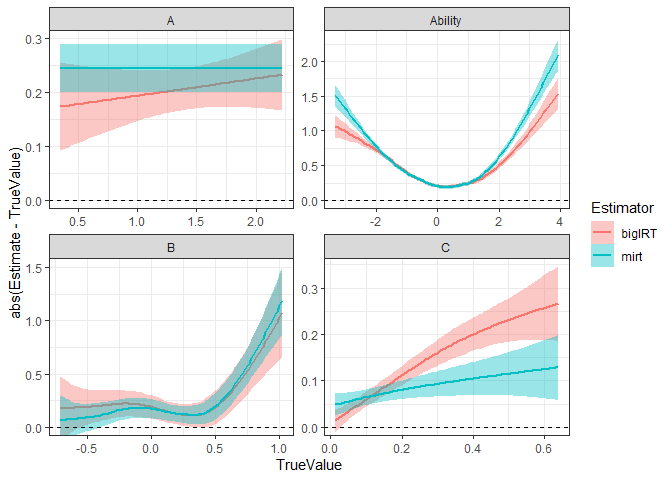
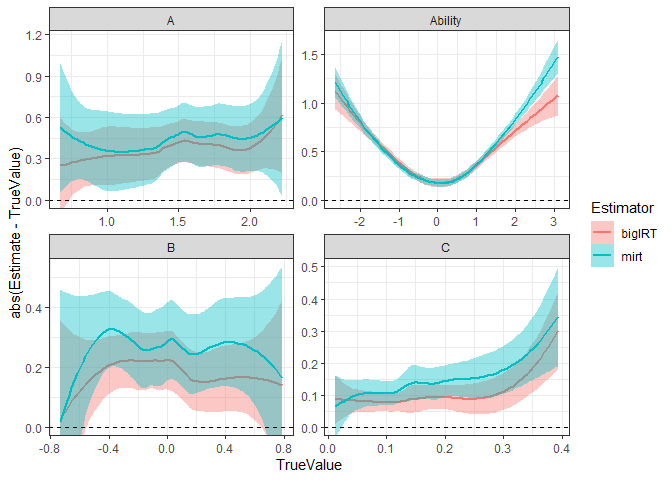
..

diff --git a/readme.md b/readme.md
@@ -24,24 +24,12 @@ model using mirt and bigIRT, and compares the parameter estimates.
 
 ``` r
 library(bigIRT)
-```
-
-    ## Loading required package: data.table
-
-``` r
 library(data.table)
 library(mirt)
-```
-
-    ## Loading required package: stats4
-
-    ## Loading required package: lattice
-
-``` r
 library(ggplot2)
 
 #generate data
-dat <- simIRT(Nsubs = 1000,Nitems = 50,Nscales = 1,
+dat <- simIRT(Nsubs = 400,Nitems = 50,Nscales = 1,
   logitCMean = -2,logitCSD = 1,AMean = 1,ASD = .3,
   BMean=0,BSD = .5,
   AbilityMean = 0,AbilitySD = 1)
@@ -49,17 +37,23 @@ dat <- simIRT(Nsubs = 1000,Nitems = 50,Nscales = 1,
 #normalise true parameters and store
 trueitempars <- normaliseIRT(B = dat$B, A = dat$A, Ability = dat$Ability)
 
-#convert to wide for mirt
-wdat <- data.frame(dcast(data.table(dat$dat),formula = 'id ~ Item',value.var='score')[,-1])
+#fit using bigIRT
+bigirtfit <- fitIRT(dat$dat, pl=3, cores=2, dropPerfectScores = FALSE, stochastic=TRUE,
+  score = 'score', id = 'id', scale = 'Scale', item = 'Item')
 
+#view item and person parameter estimates
+#print(bigirtfit$itemPars)
+#print(bigirtfit$personPars)
+
+#get normalized parameter estimates (normalised on ability)
+bigirtpars <- normaliseIRT(B = bigirtfit$itemPars$B, A = bigirtfit$itemPars$A, Ability = bigirtfit$pars$Ability)
+
+#convert to wide data for mirt
+wdat <- data.frame(dcast(data.table(dat$dat),formula = 'id ~ Item',value.var='score')[,-1])
 
 #fit using mirt
 mirtfit <- mirt(wdat,model=1, itemtype = '3PL',method = "EM")
-```
 
-    ## EM cycles terminated after 500 iterations.
-
-``` r
 #get normalized parameter estimates
 mirtItempars <- coef(mirtfit)
 mirtItempars$GroupPars <- NULL
@@ -67,22 +61,6 @@ mirtItempars <- rbindlist(lapply(mirtItempars, function(x) as.data.frame(x)))
 mirtPersonpars <- fscores(mirtfit)[,1]
 mirtpars<- normaliseIRT(B = -mirtItempars$d / mirtItempars$a1, A = mirtItempars$a1, Ability = mirtPersonpars)
 
-#fit using bigIRT
-bigirtfit <- fitIRT(dat$dat, pl=3, cores=4, dropPerfectScores = FALSE, stochastic=TRUE,
-  score = 'score', id = 'id', scale = 'Scale', item = 'Item')
-```
-
-    ## Free estimation step...
-
-    ## Progress est. = 0%, LPchange = 96, Iter = 31, LP = -31881.183848043Progress est. = 0%, LPchange = 120, Iter = 32, LP = -30989.9833787027Progress est. = 0%, LPchange = 140, Iter = 33, LP = -30315.1728567025Progress est. = 0.15%, LPchange = 140, Iter = 34, LP = -30315.1728567025Progress est. = 0%, LPchange = 160, Iter = 35, LP = -29758.8949673376Progress est. = 0.07%, LPchange = 160, Iter = 36, LP = -29741.7023523809Progress est. = 0.17%, LPchange = 150, Iter = 37, LP = -29741.7023523809Progress est. = 0%, LPchange = 160, Iter = 38, LP = -29540.1019415843Progress est. = 0.08%, LPchange = 160, Iter = 39, LP = -29540.1019415843Progress est. = 0%, LPchange = 160, Iter = 40, LP = -29364.731277841Progress est. = 0.08%, LPchange = 160, Iter = 41, LP = -29364.731277841Progress est. = 0%, LPchange = 160, Iter = 42, LP = -29282.2030974931Progress est. = 0.05%, LPchange = 160, Iter = 43, LP = -29271.1779731264Progress est. = 0.12%, LPchange = 160, Iter = 44, LP = -29271.1779731264Progress est. = 0%, LPchange = 160, Iter = 45, LP = -29167.404110647Progress est. = 0.07%, LPchange = 160, Iter = 46, LP = -29167.404110647Progress est. = 0.05%, LPchange = 160, Iter = 47, LP = -29125.2752185988Progress est. = 0.12%, LPchange = 160, Iter = 48, LP = -29125.2752185988Progress est. = 0.07%, LPchange = 160, Iter = 49, LP = -29067.189532407Progress est. = 0.14%, LPchange = 160, Iter = 50, LP = -29067.189532407Progress est. = 0.15%, LPchange = 160, Iter = 51, LP = -29042.7679410761Progress est. = 0.25%, LPchange = 160, Iter = 52, LP = -29042.7679410761Progress est. = 0.35%, LPchange = 160, Iter = 53, LP = -29019.2466671163Progress est. = 0.56%, LPchange = 150, Iter = 54, LP = -29019.2466671163Progress est. = 0.86%, LPchange = 150, Iter = 55, LP = -29005.8311343831Progress est. = 1.33%, LPchange = 140, Iter = 56, LP = -29005.8311343831Progress est. = 1.98%, LPchange = 130, Iter = 57, LP = -28992.514047427Progress est. = 2.88%, LPchange = 120, Iter = 58, LP = -28992.514047427Progress est. = 3.86%, LPchange = 110, Iter = 59, LP = -28982.45257715Progress est. = 4.54%, LPchange = 100, Iter = 60, LP = -28982.45257715Progress est. = 5.01%, LPchange = 97, Iter = 61, LP = -28975.9851289883Progress est. = 8.53%, LPchange = 67, Iter = 62, LP = -28975.9851289883Progress est. = 12.42%, LPchange = 45, Iter = 63, LP = -28970.4040254059Progress est. = 12.42%, LPchange = 45, Iter = 64, LP = -28970.4040254059Progress est. = 17.55%, LPchange = 26, Iter = 65, LP = -28969.8312804693Progress est. = 17.76%, LPchange = 26, Iter = 66, LP = -28969.8312804693Progress est. = 17.74%, LPchange = 26, Iter = 67, LP = -28967.8026396441Progress est. = 20.64%, LPchange = 19, Iter = 68, LP = -28967.8026396441Progress est. = 20.58%, LPchange = 19, Iter = 69, LP = -28964.2404741661Progress est. = 24.08%, LPchange = 13, Iter = 70, LP = -28964.2404741661Progress est. = 24.01%, LPchange = 13, Iter = 71, LP = -28961.4045710163Progress est. = 26.21%, LPchange = 11, Iter = 72, LP = -28961.4045710163Progress est. = 26.53%, LPchange = 10, Iter = 73, LP = -28960.8663423145Progress est. = 26.53%, LPchange = 10, Iter = 74, LP = -28960.8663423145Progress est. = 30.27%, LPchange = 7, Iter = 75, LP = -28957.0685646598Progress est. = 30.27%, LPchange = 7, Iter = 76, LP = -28957.0685646598Progress est. = 32.31%, LPchange = 5.7, Iter = 77, LP = -28955.067960893Progress est. = 32.31%, LPchange = 5.7, Iter = 78, LP = -28955.067960893Progress est. = 36.26%, LPchange = 3.8, Iter = 79, LP = -28954.2453771907Progress est. = 36.26%, LPchange = 3.8, Iter = 80, LP = -28954.2453771907Progress est. = 38.49%, LPchange = 3, Iter = 81, LP = -28953.1914520241Progress est. = 38.49%, LPchange = 3, Iter = 82, LP = -28953.1914520241Progress est. = 41.35%, LPchange = 2.2, Iter = 83, LP = -28952.6949215916Progress est. = 41.35%, LPchange = 2.2, Iter = 84, LP = -28952.6949215916Progress est. = 43.4%, LPchange = 1.8, Iter = 85, LP = -28952.0919978326Progress est. = 43.4%, LPchange = 1.8, Iter = 86, LP = -28952.0919978326Progress est. = 45.86%, LPchange = 1.4, Iter = 87, LP = -28950.8835694868Progress est. = 45.86%, LPchange = 1.4, Iter = 88, LP = -28950.8835694868Progress est. = 48.44%, LPchange = 1.1, Iter = 89, LP = -28950.6164306822Progress est. = 48.44%, LPchange = 1.1, Iter = 90, LP = -28950.6164306822Progress est. = 50.13%, LPchange = 0.89, Iter = 91, LP = -28949.2621311744Progress est. = 50.13%, LPchange = 0.89, Iter = 92, LP = -28949.2621311744Progress est. = 52.29%, LPchange = 0.71, Iter = 93, LP = -28949.0684669031Progress est. = 52.29%, LPchange = 0.71, Iter = 94, LP = -28949.0684669031Progress est. = 52.27%, LPchange = 0.71, Iter = 95, LP = -28948.4442742876Progress est. = 52.27%, LPchange = 0.71, Iter = 96, LP = -28948.4442742876Progress est. = 53.04%, LPchange = 0.66, Iter = 97, LP = -28948.0518640552Progress est. = 53.04%, LPchange = 0.66, Iter = 98, LP = -28948.0518640552Progress est. = 54.73%, LPchange = 0.55, Iter = 99, LP = -28947.685346405Progress est. = 54.73%, LPchange = 0.55, Iter = 100, LP = -28947.685346405Progress est. = 56.54%, LPchange = 0.46, Iter = 101, LP = -28947.685346405Progress est. = 56.39%, LPchange = 0.46, Iter = 102, LP = -28947.4699300992Progress est. = 56.73%, LPchange = 0.45, Iter = 103, LP = -28947.4109751839Progress est. = 56.73%, LPchange = 0.45, Iter = 104, LP = -28947.4109751839Progress est. = 59.37%, LPchange = 0.34, Iter = 105, LP = -28946.8404582483Progress est. = 59.33%, LPchange = 0.34, Iter = 106, LP = -28946.8039024152Progress est. = 61.29%, LPchange = 0.28, Iter = 107, LP = -28946.6906223235Progress est. = 61.29%, LPchange = 0.28, Iter = 108, LP = -28946.6906223235Progress est. = 61.82%, LPchange = 0.26, Iter = 109, LP = -28946.3188242225Progress est. = 61.8%, LPchange = 0.26, Iter = 110, LP = -28946.3027848838Progress est. = 62.63%, LPchange = 0.24, Iter = 111, LP = -28945.9000603619Progress est. = 62.63%, LPchange = 0.24, Iter = 112, LP = -28945.9000603619Progress est. = 63.3%, LPchange = 0.23, Iter = 113, LP = -28945.9000603619Progress est. = 63.19%, LPchange = 0.23, Iter = 114, LP = -28945.8207003791Progress est. = 64.08%, LPchange = 0.21, Iter = 115, LP = -28945.8207003791Progress est. = 63.4%, LPchange = 0.22, Iter = 116, LP = -28945.3618547292Progress est. = 65.3%, LPchange = 0.18, Iter = 117, LP = -28945.3618547292Progress est. = 64.03%, LPchange = 0.21, Iter = 118, LP = -28944.5789290077Progress est. = 64.44%, LPchange = 0.2, Iter = 119, LP = -28944.5789290077Progress est. = 63.3%, LPchange = 0.23, Iter = 120, LP = -28943.8192168316Progress est. = 65.44%, LPchange = 0.18, Iter = 121, LP = -28943.8192168316Progress est. = 64.3%, LPchange = 0.2, Iter = 122, LP = -28943.1354249754Progress est. = 64.61%, LPchange = 0.2, Iter = 123, LP = -28943.1354249754Progress est. = 62.52%, LPchange = 0.25, Iter = 124, LP = -28941.6958772409Progress est. = 63.37%, LPchange = 0.22, Iter = 125, LP = -28941.6958772409Progress est. = 61.02%, LPchange = 0.29, Iter = 126, LP = -28939.8283147545Progress est. = 61.47%, LPchange = 0.27, Iter = 127, LP = -28939.8283147545Progress est. = 59.75%, LPchange = 0.33, Iter = 128, LP = -28938.2257491559Progress est. = 60.12%, LPchange = 0.32, Iter = 129, LP = -28938.2257491559Progress est. = 59.43%, LPchange = 0.34, Iter = 130, LP = -28937.5268518013Progress est. = 58.72%, LPchange = 0.36, Iter = 131, LP = -28936.7485062605Progress est. = 58.92%, LPchange = 0.36, Iter = 132, LP = -28936.7485062605Progress est. = 58.28%, LPchange = 0.38, Iter = 133, LP = -28935.9516154424Progress est. = 58.16%, LPchange = 0.39, Iter = 134, LP = -28935.8100837686Progress est. = 58.17%, LPchange = 0.39, Iter = 135, LP = -28935.2595161092Progress est. = 57.83%, LPchange = 0.4, Iter = 136, LP = -28934.8020477989Progress est. = 57.75%, LPchange = 0.4, Iter = 137, LP = -28934.5849597471Progress est. = 57.52%, LPchange = 0.41, Iter = 138, LP = -28934.2899134252Progress est. = 57.4%, LPchange = 0.42, Iter = 139, LP = -28933.7724121584Progress est. = 57.32%, LPchange = 0.42, Iter = 140, LP = -28933.6530269976Progress est. = 57.36%, LPchange = 0.42, Iter = 141, LP = -28933.3020278109Progress est. = 56.98%, LPchange = 0.44, Iter = 142, LP = -28932.795121071Progress est. = 56.89%, LPchange = 0.44, Iter = 143, LP = -28932.664859981Progress est. = 56.6%, LPchange = 0.45, Iter = 144, LP = -28932.181230873Progress est. = 56.44%, LPchange = 0.46, Iter = 145, LP = -28931.9535752563Progress est. = 56.46%, LPchange = 0.46, Iter = 146, LP = -28931.5203962935Progress est. = 56.17%, LPchange = 0.48, Iter = 147, LP = -28931.1014560262Progress est. = 56.67%, LPchange = 0.45, Iter = 148, LP = -28931.0336445755Progress est. = 56.51%, LPchange = 0.46, Iter = 149, LP = -28930.8087410397Progress est. = 57%, LPchange = 0.44, Iter = 150, LP = -28930.7340342276Progress est. = 56.37%, LPchange = 0.47, Iter = 151, LP = -28929.8485621478Progress est. = 56.32%, LPchange = 0.47, Iter = 152, LP = -28929.1000140303Progress est. = 56.32%, LPchange = 0.47, Iter = 153, LP = -28929.1000140303Progress est. = 57.01%, LPchange = 0.44, Iter = 154, LP = -28928.6238941825Progress est. = 57.01%, LPchange = 0.44, Iter = 155, LP = -28928.6238941825Progress est. = 57.93%, LPchange = 0.4, Iter = 156, LP = -28927.9503713177Progress est. = 57.93%, LPchange = 0.4, Iter = 157, LP = -28927.9503713177Progress est. = 59.25%, LPchange = 0.35, Iter = 158, LP = -28927.8664724846Progress est. = 58.66%, LPchange = 0.37, Iter = 159, LP = -28927.2119747574Progress est. = 58.84%, LPchange = 0.36, Iter = 160, LP = -28926.7188699041Progress est. = 58.77%, LPchange = 0.36, Iter = 161, LP = -28925.8628408302Progress est. = 58.4%, LPchange = 0.38, Iter = 162, LP = -28925.4387203277Progress est. = 58.71%, LPchange = 0.37, Iter = 163, LP = -28924.9988512583Progress est. = 58.38%, LPchange = 0.38, Iter = 164, LP = -28924.4704831714Progress est. = 58.31%, LPchange = 0.38, Iter = 165, LP = -28923.8362586693Progress est. = 58.52%, LPchange = 0.37, Iter = 166, LP = -28923.633297779Progress est. = 58.31%, LPchange = 0.38, Iter = 167, LP = -28923.1718189851Progress est. = 58.23%, LPchange = 0.38, Iter = 168, LP = -28922.7755633244Progress est. = 58.38%, LPchange = 0.38, Iter = 169, LP = -28922.4367577876Progress est. = 58.24%, LPchange = 0.38, Iter = 170, LP = -28922.1536817172Progress est. = 58.26%, LPchange = 0.38, Iter = 171, LP = -28921.8223411671Progress est. = 58.48%, LPchange = 0.37, Iter = 172, LP = -28921.5743037074Progress est. = 58.36%, LPchange = 0.38, Iter = 173, LP = -28921.3103253033Progress est. = 58.52%, LPchange = 0.37, Iter = 174, LP = -28921.0073008899Progress est. = 58.5%, LPchange = 0.37, Iter = 175, LP = -28920.7598231573Progress est. = 58.69%, LPchange = 0.37, Iter = 176, LP = -28920.5469887493Progress est. = 58.81%, LPchange = 0.36, Iter = 177, LP = -28920.2657072933Progress est. = 58.68%, LPchange = 0.37, Iter = 178, LP = -28920.0469825412Progress est. = 58.74%, LPchange = 0.36, Iter = 179, LP = -28919.8895480458Progress est. = 58.81%, LPchange = 0.36, Iter = 180, LP = -28919.8895480458Progress est. = 59.63%, LPchange = 0.33, Iter = 181, LP = -28919.8895480458Progress est. = 60.38%, LPchange = 0.31, Iter = 182, LP = -28919.8895480458Progress est. = 60.17%, LPchange = 0.31, Iter = 183, LP = -28919.6883852369Progress est. = 60.16%, LPchange = 0.31, Iter = 184, LP = -28919.2028816212Progress est. = 60.16%, LPchange = 0.31, Iter = 185, LP = -28919.2028816212Progress est. = 60.87%, LPchange = 0.29, Iter = 186, LP = -28919.2028816212Progress est. = 60.41%, LPchange = 0.31, Iter = 187, LP = -28918.7741768181Progress est. = 60.46%, LPchange = 0.3, Iter = 188, LP = -28918.7387203504Progress est. = 60.86%, LPchange = 0.29, Iter = 189, LP = -28918.4505081283Progress est. = 61.27%, LPchange = 0.28, Iter = 190, LP = -28918.3236001957Progress est. = 62.03%, LPchange = 0.26, Iter = 191, LP = -28918.1058073992Progress est. = 62.51%, LPchange = 0.25, Iter = 192, LP = -28918.0570317659Progress est. = 62.89%, LPchange = 0.24, Iter = 193, LP = -28917.9049684733Progress est. = 63.49%, LPchange = 0.22, Iter = 194, LP = -28917.8037214146Progress est. = 64.35%, LPchange = 0.2, Iter = 195, LP = -28917.7406046653Progress est. = 64.52%, LPchange = 0.2, Iter = 196, LP = -28917.6434591612Progress est. = 65.1%, LPchange = 0.19, Iter = 197, LP = -28917.5350478169Progress est. = 65.67%, LPchange = 0.18, Iter = 198, LP = -28917.4608338844Progress est. = 66.2%, LPchange = 0.17, Iter = 199, LP = -28917.4059806943Progress est. = 66.55%, LPchange = 0.16, Iter = 200, LP = -28917.3029514232Progress est. = 67.15%, LPchange = 0.15, Iter = 201, LP = -28917.2654708159Progress est. = 67.54%, LPchange = 0.15, Iter = 202, LP = -28917.2004127303Progress est. = 67.96%, LPchange = 0.14, Iter = 203, LP = -28917.1212326491Progress est. = 68.56%, LPchange = 0.13, Iter = 204, LP = -28917.0700207521Progress est. = 69.14%, LPchange = 0.12, Iter = 205, LP = -28917.0529493555Progress est. = 69.47%, LPchange = 0.12, Iter = 206, LP = -28916.9672329827Progress est. = 70.08%, LPchange = 0.11, Iter = 207, LP = -28916.9063531024Progress est. = 70.6%, LPchange = 0.11, Iter = 208, LP = -28916.8639995257Progress est. = 70.84%, LPchange = 0.1, Iter = 209, LP = -28916.7844885762Progress est. = 70.64%, LPchange = 0.11, Iter = 210, LP = -28916.7183173174Progress est. = 70.45%, LPchange = 0.11, Iter = 211, LP = -28916.6571189945Progress est. = 70.32%, LPchange = 0.11, Iter = 212, LP = -28916.6134571183Progress est. = 70.79%, LPchange = 0.1, Iter = 213, LP = -28916.5653876638Progress est. = 72.18%, LPchange = 0.09, Iter = 214, LP = -28916.5021541044Progress est. = 72.03%, LPchange = 0.092, Iter = 215, LP = -28916.4576663505Progress est. = 71.85%, LPchange = 0.093, Iter = 216, LP = -28916.4077440467Progress est. = 73.28%, LPchange = 0.08, Iter = 217, LP = -28916.3632722288Progress est. = 73.19%, LPchange = 0.081, Iter = 218, LP = -28916.3056911788Progress est. = 74.4%, LPchange = 0.071, Iter = 219, LP = -28916.3056911788Progress est. = 74.93%, LPchange = 0.068, Iter = 220, LP = -28916.2931030741Progress est. = 75.44%, LPchange = 0.064, Iter = 221, LP = -28916.1801901689Progress est. = 75.38%, LPchange = 0.065, Iter = 222, LP = -28916.1196856195Progress est. = 75.98%, LPchange = 0.061, Iter = 223, LP = -28916.0838567065Progress est. = 76.35%, LPchange = 0.058, Iter = 224, LP = -28916.0527835473Progress est. = 76.24%, LPchange = 0.059, Iter = 225, LP = -28915.969318866Progress est. = 76.59%, LPchange = 0.057, Iter = 226, LP = -28915.9347847458Progress est. = 77.22%, LPchange = 0.053, Iter = 227, LP = -28915.9347847458Progress est. = 76.97%, LPchange = 0.055, Iter = 228, LP = -28915.81792386Progress est. = 77.19%, LPchange = 0.054, Iter = 229, LP = -28915.8008011419Progress est. = 77.29%, LPchange = 0.053, Iter = 230, LP = -28915.7151493511Progress est. = 77.52%, LPchange = 0.052, Iter = 231, LP = -28915.7151493511Progress est. = 77.77%, LPchange = 0.05, Iter = 232, LP = -28915.6895034644Progress est. = 78.1%, LPchange = 0.049, Iter = 233, LP = -28915.6609702862Progress est. = 78.2%, LPchange = 0.048, Iter = 234, LP = -28915.6243054875Progress est. = 78.13%, LPchange = 0.049, Iter = 235, LP = -28915.5967315976Progress est. = 78.35%, LPchange = 0.047, Iter = 236, LP = -28915.5438662636Progress est. = 78.6%, LPchange = 0.046, Iter = 237, LP = -28915.5199515292Progress est. = 78.66%, LPchange = 0.046, Iter = 238, LP = -28915.4857740791Progress est. = 79.04%, LPchange = 0.044, Iter = 239, LP = -28915.4594247337Progress est. = 79.38%, LPchange = 0.043, Iter = 240, LP = -28915.4404355601Progress est. = 79.63%, LPchange = 0.042, Iter = 241, LP = -28915.4113466016Progress est. = 79.84%, LPchange = 0.041, Iter = 242, LP = -28915.3950055179Progress est. = 80.01%, LPchange = 0.04, Iter = 243, LP = -28915.3674987159Progress est. = 80.4%, LPchange = 0.038, Iter = 244, LP = -28915.3520246885Progress est. = 80.55%, LPchange = 0.038, Iter = 245, LP = -28915.3261270956Progress est. = 80.86%, LPchange = 0.037, Iter = 246, LP = -28915.3115795559Progress est. = 81.05%, LPchange = 0.036, Iter = 247, LP = -28915.2885553468Progress est. = 81.4%, LPchange = 0.035, Iter = 248, LP = -28915.2694477245Progress est. = 81.4%, LPchange = 0.035, Iter = 249, LP = -28915.2694477245Progress est. = 81.52%, LPchange = 0.034, Iter = 250, LP = -28915.2694477245Progress est. = 82.43%, LPchange = 0.031, Iter = 251, LP = -28915.2494377984Progress est. = 83.08%, LPchange = 0.029, Iter = 252, LP = -28915.2494377984Progress est. = 83.43%, LPchange = 0.028, Iter = 253, LP = -28915.2445221812Progress est. = 83.5%, LPchange = 0.028, Iter = 254, LP = -28915.2194589343Progress est. = 84.42%, LPchange = 0.025, Iter = 255, LP = -28915.2122095364Progress est. = 84.52%, LPchange = 0.025, Iter = 256, LP = -28915.1850214512Progress est. = 84.33%, LPchange = 0.025, Iter = 257, LP = -28915.170277358Progress est. = 85.82%, LPchange = 0.022, Iter = 258, LP = -28915.1630059837Progress est. = 85.83%, LPchange = 0.022, Iter = 259, LP = -28915.1466377129Progress est. = 87.04%, LPchange = 0.019, Iter = 260, LP = -28915.1381780003Progress est. = 86.81%, LPchange = 0.02, Iter = 261, LP = -28915.1247022068Progress est. = 87.1%, LPchange = 0.019, Iter = 262, LP = -28915.1166256806Progress est. = 87.47%, LPchange = 0.018, Iter = 263, LP = -28915.1096820283Progress est. = 87.85%, LPchange = 0.018, Iter = 264, LP = -28915.0942644383Progress est. = 88.2%, LPchange = 0.017, Iter = 265, LP = -28915.0852445227Progress est. = 89.09%, LPchange = 0.016, Iter = 266, LP = -28915.0775979615Progress est. = 89.55%, LPchange = 0.015, Iter = 267, LP = -28915.0755865146Progress est. = 90.06%, LPchange = 0.014, Iter = 268, LP = -28915.0641984226Progress est. = 90.44%, LPchange = 0.013, Iter = 269, LP = -28915.05450836Progress est. = 90.8%, LPchange = 0.013, Iter = 270, LP = -28915.0501702976Progress est. = 91.54%, LPchange = 0.012, Iter = 271, LP = -28915.0501702976Progress est. = 91.99%, LPchange = 0.011, Iter = 272, LP = -28915.0501702976Progress est. = 92.79%, LPchange = 0.011, Iter = 273, LP = -28915.0501702976Progress est. = 92.91%, LPchange = 0.01, Iter = 274, LP = -28915.0387920581Progress est. = 93.68%, LPchange = 0.0096, Iter = 275, LP = -28915.0369256734Progress est. = 93.71%, LPchange = 0.0096, Iter = 276, LP = -28915.0231089041Progress est. = 94.25%, LPchange = 0.0091, Iter = 277, LP = -28915.0159254562Progress est. = 94.79%, LPchange = 0.0086, Iter = 278, LP = -28915.0116616446Progress est. = 94.56%, LPchange = 0.0088, Iter = 279, LP = -28915.0054430346Progress est. = 94.38%, LPchange = 0.009, Iter = 280, LP = -28915.0004861775Progress est. = 94.96%, LPchange = 0.0084, Iter = 281, LP = -28914.996214417Progress est. = 94.83%, LPchange = 0.0086, Iter = 282, LP = -28914.9927473509Progress est. = 94.89%, LPchange = 0.0085, Iter = 283, LP = -28914.9895228775Progress est. = 95.74%, LPchange = 0.0078, Iter = 284, LP = -28914.986040929Progress est. = 95.93%, LPchange = 0.0076, Iter = 285, LP = -28914.9832666893Progress est. = 97.06%, LPchange = 0.0068, Iter = 286, LP = -28914.9814370904Progress est. = 97.66%, LPchange = 0.0064, Iter = 287, LP = -28914.9790448186Progress est. = 97.97%, LPchange = 0.0062, Iter = 288, LP = -28914.9777721629Progress est. = 98.86%, LPchange = 0.0056, Iter = 289, LP = -28914.9777721629Progress est. = 99.35%, LPchange = 0.0053, Iter = 290, LP = -28914.9777721629Progress est. = 100%, LPchange = 0.0049, Iter = 291, LP = -28914.9777721629
-    ## Converged -- lp change within tol(0.005)
-    ## Empirical Bayes step...
-    ## Progress est. = 0%, LPchange = 86, Iter = 31, LP = -32123.826767118Progress est. = 0%, LPchange = 110, Iter = 32, LP = -31332.3812540841Progress est. = 0%, LPchange = 140, Iter = 33, LP = -30331.4805795993Progress est. = 0.13%, LPchange = 140, Iter = 34, LP = -30331.4805795993Progress est. = 0%, LPchange = 140, Iter = 35, LP = -30177.6408870137Progress est. = 0.1%, LPchange = 140, Iter = 36, LP = -30177.6408870137Progress est. = 0%, LPchange = 140, Iter = 37, LP = -29965.8417245009Progress est. = 0.08%, LPchange = 140, Iter = 38, LP = -29965.8417245009Progress est. = 0.02%, LPchange = 140, Iter = 39, LP = -29890.9174012707Progress est. = 0.1%, LPchange = 140, Iter = 40, LP = -29890.9174012707Progress est. = 0%, LPchange = 150, Iter = 41, LP = -29684.7901678799Progress est. = 0.07%, LPchange = 150, Iter = 42, LP = -29684.7901678799Progress est. = 0%, LPchange = 150, Iter = 43, LP = -29548.4621545618Progress est. = 0.06%, LPchange = 150, Iter = 44, LP = -29548.4621545618Progress est. = 0%, LPchange = 150, Iter = 45, LP = -29467.1241605572Progress est. = 0.06%, LPchange = 150, Iter = 46, LP = -29467.1241605572Progress est. = 0.02%, LPchange = 150, Iter = 47, LP = -29406.2118255273Progress est. = 0.08%, LPchange = 150, Iter = 48, LP = -29406.2118255273Progress est. = 0.07%, LPchange = 150, Iter = 49, LP = -29370.7511833959Progress est. = 0.13%, LPchange = 150, Iter = 50, LP = -29370.7511833959Progress est. = 0.11%, LPchange = 150, Iter = 51, LP = -29325.2426426557Progress est. = 0.2%, LPchange = 150, Iter = 52, LP = -29325.2426426557Progress est. = 0.25%, LPchange = 150, Iter = 53, LP = -29282.5212426137Progress est. = 0.45%, LPchange = 140, Iter = 54, LP = -29282.5212426137Progress est. = 0.7%, LPchange = 140, Iter = 55, LP = -29259.5288526293Progress est. = 1.13%, LPchange = 130, Iter = 56, LP = -29259.5288526293Progress est. = 1.66%, LPchange = 120, Iter = 57, LP = -29221.2962544466Progress est. = 2.45%, LPchange = 110, Iter = 58, LP = -29221.2962544466Progress est. = 3.17%, LPchange = 100, Iter = 59, LP = -29201.8853365323Progress est. = 3.41%, LPchange = 98, Iter = 60, LP = -29201.8853365323Progress est. = 3.4%, LPchange = 98, Iter = 61, LP = -29184.8649625834Progress est. = 5.88%, LPchange = 72, Iter = 62, LP = -29184.8649625834Progress est. = 10.72%, LPchange = 39, Iter = 63, LP = -29164.3317549016Progress est. = 10.7%, LPchange = 39, Iter = 64, LP = -29161.6333097946Progress est. = 11.77%, LPchange = 34, Iter = 65, LP = -29156.0700863159Progress est. = 11.68%, LPchange = 34, Iter = 66, LP = -29143.5756485601Progress est. = 13.4%, LPchange = 28, Iter = 67, LP = -29133.758492946Progress est. = 13.36%, LPchange = 28, Iter = 68, LP = -29129.5737940532Progress est. = 13.99%, LPchange = 26, Iter = 69, LP = -29118.4315085524Progress est. = 13.97%, LPchange = 26, Iter = 70, LP = -29116.8368704746Progress est. = 16.31%, LPchange = 19, Iter = 71, LP = -29108.5459496927Progress est. = 16.18%, LPchange = 20, Iter = 72, LP = -29098.6248307068Progress est. = 18.18%, LPchange = 15, Iter = 73, LP = -29093.121714257Progress est. = 18.18%, LPchange = 15, Iter = 74, LP = -29093.121714257Progress est. = 19.36%, LPchange = 13, Iter = 75, LP = -29074.654974731Progress est. = 19.36%, LPchange = 13, Iter = 76, LP = -29074.654974731Progress est. = 20.43%, LPchange = 11, Iter = 77, LP = -29063.4414285943Progress est. = 20.43%, LPchange = 11, Iter = 78, LP = -29063.4414285943Progress est. = 21.12%, LPchange = 10, Iter = 79, LP = -29056.4001743322Progress est. = 21.12%, LPchange = 10, Iter = 80, LP = -29056.4001743322Progress est. = 22.12%, LPchange = 9.2, Iter = 81, LP = -29048.2397922963Progress est. = 22.12%, LPchange = 9.2, Iter = 82, LP = -29048.2397922963Progress est. = 23.22%, LPchange = 8, Iter = 83, LP = -29041.3083204685Progress est. = 23.22%, LPchange = 8, Iter = 84, LP = -29041.3083204685Progress est. = 23.9%, LPchange = 7.4, Iter = 85, LP = -29038.2472940561Progress est. = 23.9%, LPchange = 7.4, Iter = 86, LP = -29038.1236520476Progress est. = 25.23%, LPchange = 6.2, Iter = 87, LP = -29034.0912973555Progress est. = 25.18%, LPchange = 6.3, Iter = 88, LP = -29032.9399038569Progress est. = 25.94%, LPchange = 5.7, Iter = 89, LP = -29030.8134643813Progress est. = 25.83%, LPchange = 5.8, Iter = 90, LP = -29028.4436416755Progress est. = 26.64%, LPchange = 5.2, Iter = 91, LP = -29028.174982535Progress est. = 26.57%, LPchange = 5.3, Iter = 92, LP = -29026.8315486964Progress est. = 27.59%, LPchange = 4.6, Iter = 93, LP = -29025.3351856527Progress est. = 27.72%, LPchange = 4.6, Iter = 94, LP = -29024.8811437858Progress est. = 28.05%, LPchange = 4.4, Iter = 95, LP = -29024.8811437858Progress est. = 28.75%, LPchange = 4, Iter = 96, LP = -29023.569978089Progress est. = 29.43%, LPchange = 3.7, Iter = 97, LP = -29023.569978089Progress est. = 29.74%, LPchange = 3.5, Iter = 98, LP = -29023.569978089Progress est. = 30.55%, LPchange = 3.2, Iter = 99, LP = -29022.7482353549Progress est. = 30.66%, LPchange = 3.1, Iter = 100, LP = -29022.5451488353Progress est. = 31.38%, LPchange = 2.9, Iter = 101, LP = -29022.3619101638Progress est. = 32.3%, LPchange = 2.6, Iter = 102, LP = -29021.9599780928Progress est. = 32.89%, LPchange = 2.4, Iter = 103, LP = -29021.9369051458Progress est. = 32.85%, LPchange = 2.4, Iter = 104, LP = -29021.5441584258Progress est. = 35.18%, LPchange = 1.8, Iter = 105, LP = -29021.2800396299Progress est. = 35.15%, LPchange = 1.8, Iter = 106, LP = -29021.1068901633Progress est. = 36.99%, LPchange = 1.4, Iter = 107, LP = -29020.9971154541Progress est. = 36.97%, LPchange = 1.4, Iter = 108, LP = -29020.8759802369Progress est. = 38.37%, LPchange = 1.2, Iter = 109, LP = -29020.731267989Progress est. = 38.34%, LPchange = 1.2, Iter = 110, LP = -29020.600428225Progress est. = 40.36%, LPchange = 0.93, Iter = 111, LP = -29020.4867027517Progress est. = 40.34%, LPchange = 0.93, Iter = 112, LP = -29020.4155396148Progress est. = 42.58%, LPchange = 0.7, Iter = 113, LP = -29020.3410489487Progress est. = 42.55%, LPchange = 0.7, Iter = 114, LP = -29020.2552523506Progress est. = 43.78%, LPchange = 0.6, Iter = 115, LP = -29020.2188582733Progress est. = 43.83%, LPchange = 0.6, Iter = 116, LP = -29020.2010420232Progress est. = 45.85%, LPchange = 0.46, Iter = 117, LP = -29020.2010420232Progress est. = 46.53%, LPchange = 0.42, Iter = 118, LP = -29020.2010420232Progress est. = 47.98%, LPchange = 0.35, Iter = 119, LP = -29020.2010420232Progress est. = 49.98%, LPchange = 0.27, Iter = 120, LP = -29020.2010420232Progress est. = 50.15%, LPchange = 0.27, Iter = 121, LP = -29020.1072986246Progress est. = 51.6%, LPchange = 0.22, Iter = 122, LP = -29020.1072986246Progress est. = 53.59%, LPchange = 0.17, Iter = 123, LP = -29020.1072986246Progress est. = 54%, LPchange = 0.17, Iter = 124, LP = -29019.913604736Progress est. = 54%, LPchange = 0.17, Iter = 125, LP = -29019.913604736Progress est. = 56.16%, LPchange = 0.13, Iter = 126, LP = -29019.7860699052Progress est. = 56.16%, LPchange = 0.13, Iter = 127, LP = -29019.7860699052Progress est. = 55.94%, LPchange = 0.13, Iter = 128, LP = -29019.6833001257Progress est. = 57.83%, LPchange = 0.1, Iter = 129, LP = -29019.6833001257Progress est. = 58.09%, LPchange = 0.099, Iter = 130, LP = -29019.5814828205Progress est. = 58.6%, LPchange = 0.093, Iter = 131, LP = -29019.5814828205Progress est. = 59.65%, LPchange = 0.081, Iter = 132, LP = -29019.5245687246Progress est. = 59.61%, LPchange = 0.082, Iter = 133, LP = -29019.4905823947Progress est. = 60.92%, LPchange = 0.069, Iter = 134, LP = -29019.4705997676Progress est. = 61.84%, LPchange = 0.062, Iter = 135, LP = -29019.4329138561Progress est. = 62.4%, LPchange = 0.057, Iter = 136, LP = -29019.3843904539Progress est. = 62.75%, LPchange = 0.055, Iter = 137, LP = -29019.3499000432Progress est. = 63.21%, LPchange = 0.052, Iter = 138, LP = -29019.322209426Progress est. = 63.82%, LPchange = 0.048, Iter = 139, LP = -29019.2929128789Progress est. = 64.43%, LPchange = 0.044, Iter = 140, LP = -29019.2684225285Progress est. = 64.99%, LPchange = 0.041, Iter = 141, LP = -29019.245059707Progress est. = 65.32%, LPchange = 0.04, Iter = 142, LP = -29019.2251042003Progress est. = 65.74%, LPchange = 0.038, Iter = 143, LP = -29019.210837731Progress est. = 66.29%, LPchange = 0.035, Iter = 144, LP = -29019.2016981171Progress est. = 66.52%, LPchange = 0.034, Iter = 145, LP = -29019.1955889129Progress est. = 66.65%, LPchange = 0.034, Iter = 146, LP = -29019.1945288245Progress est. = 66.65%, LPchange = 0.034, Iter = 147, LP = -29019.1945288245Progress est. = 66.65%, LPchange = 0.034, Iter = 148, LP = -29019.1945288245Progress est. = 66.54%, LPchange = 0.034, Iter = 149, LP = -29019.1803498298Progress est. = 66.47%, LPchange = 0.034, Iter = 150, LP = -29019.1714165663Progress est. = 67.22%, LPchange = 0.031, Iter = 151, LP = -29019.1698142355Progress est. = 67.22%, LPchange = 0.031, Iter = 152, LP = -29019.1698142355Progress est. = 67.22%, LPchange = 0.031, Iter = 153, LP = -29019.1698142355Progress est. = 69.05%, LPchange = 0.025, Iter = 154, LP = -29019.1698142355Progress est. = 68.86%, LPchange = 0.025, Iter = 155, LP = -29019.1518537764Progress est. = 70.25%, LPchange = 0.021, Iter = 156, LP = -29019.1468486089Progress est. = 70.25%, LPchange = 0.021, Iter = 157, LP = -29019.1468486089Progress est. = 71.64%, LPchange = 0.018, Iter = 158, LP = -29019.1468486089Progress est. = 71.58%, LPchange = 0.018, Iter = 159, LP = -29019.1427801695Progress est. = 73.06%, LPchange = 0.015, Iter = 160, LP = -29019.1329084462Progress est. = 73.05%, LPchange = 0.015, Iter = 161, LP = -29019.1323731569Progress est. = 73.99%, LPchange = 0.013, Iter = 162, LP = -29019.1255342734Progress est. = 74.62%, LPchange = 0.012, Iter = 163, LP = -29019.1222000896Progress est. = 74.95%, LPchange = 0.012, Iter = 164, LP = -29019.1172983951Progress est. = 75.76%, LPchange = 0.011, Iter = 165, LP = -29019.113825688Progress est. = 76.93%, LPchange = 0.0092, Iter = 166, LP = -29019.1089002814Progress est. = 77.86%, LPchange = 0.0082, Iter = 167, LP = -29019.1050456123Progress est. = 78.67%, LPchange = 0.0074, Iter = 168, LP = -29019.1010193292Progress est. = 79.6%, LPchange = 0.0066, Iter = 169, LP = -29019.0963692312Progress est. = 80.52%, LPchange = 0.0058, Iter = 170, LP = -29019.0932784205Progress est. = 81.65%, LPchange = 0.0051, Iter = 171, LP = -29019.0932784205Progress est. = 82.77%, LPchange = 0.0044, Iter = 172, LP = -29019.0932784205Progress est. = 83.68%, LPchange = 0.0039, Iter = 173, LP = -29019.0932784205Progress est. = 83.05%, LPchange = 0.0042, Iter = 174, LP = -29019.0743809382Progress est. = 83.44%, LPchange = 0.004, Iter = 175, LP = -29019.0743809382Progress est. = 83.51%, LPchange = 0.004, Iter = 176, LP = -29019.0743809382Progress est. = 83.12%, LPchange = 0.0042, Iter = 177, LP = -29019.0684084401Progress est. = 83.12%, LPchange = 0.0042, Iter = 178, LP = -29019.0684084401Progress est. = 83.33%, LPchange = 0.0041, Iter = 179, LP = -29019.0574594347Progress est. = 83.92%, LPchange = 0.0038, Iter = 180, LP = -29019.0574594347Progress est. = 83.44%, LPchange = 0.004, Iter = 181, LP = -29019.0487101441Progress est. = 83.3%, LPchange = 0.0041, Iter = 182, LP = -29019.0465112641Progress est. = 83.05%, LPchange = 0.0042, Iter = 183, LP = -29019.0425754932Progress est. = 82.7%, LPchange = 0.0044, Iter = 184, LP = -29019.0368126457Progress est. = 83.74%, LPchange = 0.0039, Iter = 185, LP = -29019.0351594868Progress est. = 84.04%, LPchange = 0.0037, Iter = 186, LP = -29019.0345330459Progress est. = 83.75%, LPchange = 0.0039, Iter = 187, LP = -29019.0303179449Progress est. = 83.65%, LPchange = 0.0039, Iter = 188, LP = -29019.0289460925Progress est. = 83.9%, LPchange = 0.0038, Iter = 189, LP = -29019.028424272Progress est. = 84.57%, LPchange = 0.0035, Iter = 190, LP = -29019.0278798078Progress est. = 84.53%, LPchange = 0.0035, Iter = 191, LP = -29019.0268202649Progress est. = 85%, LPchange = 0.0033, Iter = 192, LP = -29019.0260506062Progress est. = 85.27%, LPchange = 0.0032, Iter = 193, LP = -29019.0260506062Progress est. = 85.69%, LPchange = 0.003, Iter = 194, LP = -29019.0260506062Progress est. = 85.99%, LPchange = 0.0029, Iter = 195, LP = -29019.0260506062Progress est. = 86.45%, LPchange = 0.0028, Iter = 196, LP = -29019.0260506062Progress est. = 86.83%, LPchange = 0.0026, Iter = 197, LP = -29019.0260506062Progress est. = 87.24%, LPchange = 0.0025, Iter = 198, LP = -29019.0260506062Progress est. = 87.75%, LPchange = 0.0023, Iter = 199, LP = -29019.0260506062Progress est. = 88.11%, LPchange = 0.0022, Iter = 200, LP = -29019.0260506062Progress est. = 88.11%, LPchange = 0.0022, Iter = 201, LP = -29019.0260506062Progress est. = 88.11%, LPchange = 0.0022, Iter = 202, LP = -29019.0260506062Progress est. = 88.1%, LPchange = 0.0022, Iter = 203, LP = -29019.0259884974Progress est. = 90.71%, LPchange = 0.0016, Iter = 204, LP = -29019.0259884974Progress est. = 90.69%, LPchange = 0.0016, Iter = 205, LP = -29019.0258648474Progress est. = 90.65%, LPchange = 0.0016, Iter = 206, LP = -29019.0255917766Progress est. = 91.68%, LPchange = 0.0014, Iter = 207, LP = -29019.0255917766Progress est. = 91.68%, LPchange = 0.0014, Iter = 208, LP = -29019.0255917766Progress est. = 93.94%, LPchange = 0.0011, Iter = 209, LP = -29019.025231494Progress est. = 93.94%, LPchange = 0.0011, Iter = 210, LP = -29019.025231494Progress est. = 96.44%, LPchange = 0.00078, Iter = 211, LP = -29019.025201443Progress est. = 97.19%, LPchange = 0.00071, Iter = 212, LP = -29019.0251239136Progress est. = 98.8%, LPchange = 0.00058, Iter = 213, LP = -29019.0251239136Progress est. = 100%, LPchange = 0.00039, Iter = 214, LP = -29019.0250367109
-    ## Converged -- lp change within tol(5e-04)
-
-``` r
-#get normalized parameter estimates
-bigirtpars <- normaliseIRT(B = bigirtfit$itemPars$B, A = bigirtfit$itemPars$A, Ability = bigirtfit$pars$Ability)
 
 #combine parameter outputs
 itempars <- rbind(
@@ -121,8 +99,6 @@ ggplot(pars,aes(x=TrueValue,y=abs(Estimate-TrueValue),colour=Estimator, fill=Est
   geom_hline(yintercept=0,linetype='dashed')
 ```
 
-    ## `geom_smooth()` using method = 'gam' and formula = 'y ~ s(x, bs = "cs")'
-
 ![](readme_files/figure-gfm/unnamed-chunk-1-2.png)<!-- -->
 
 ``` r
@@ -132,7 +108,5 @@ ggplot(pars,aes(x=TrueValue,y=Estimate-TrueValue,colour=Estimator, fill=Estimato
   facet_wrap(~Parameter,scales='free')+
   theme_bw()+geom_hline(yintercept=0,linetype='dashed')
 ```
-
-    ## `geom_smooth()` using method = 'gam' and formula = 'y ~ s(x, bs = "cs")'
 
 ![](readme_files/figure-gfm/unnamed-chunk-1-3.png)<!-- -->
